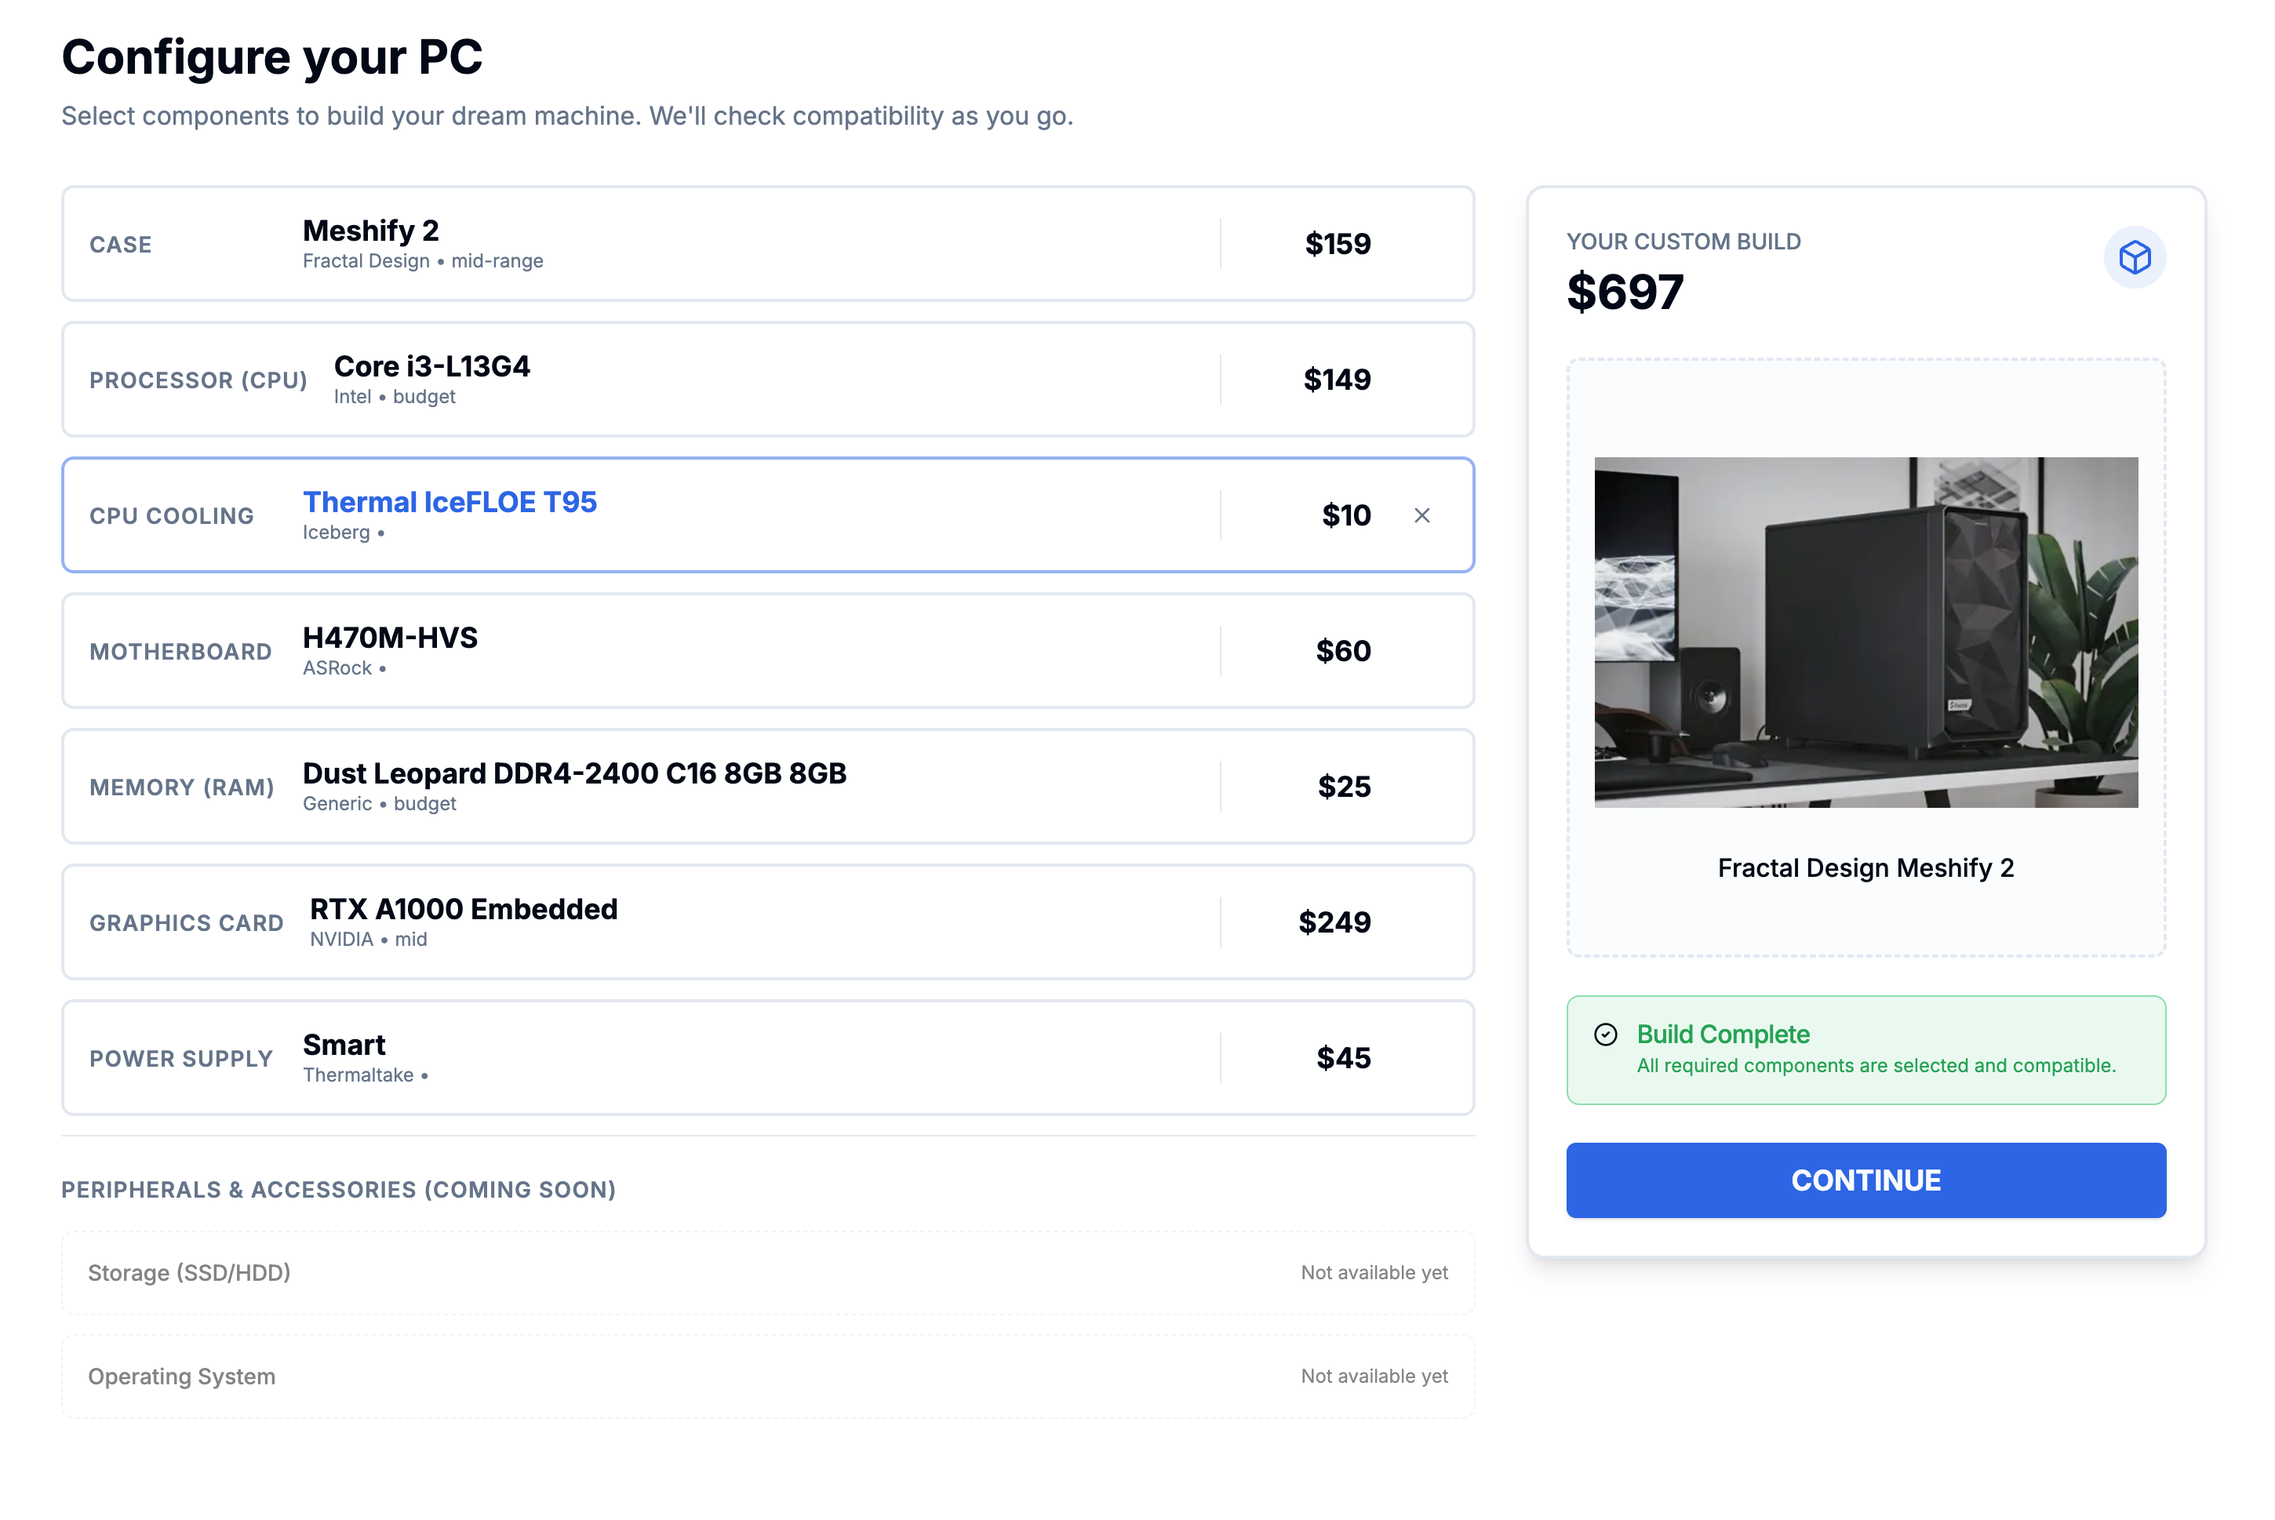
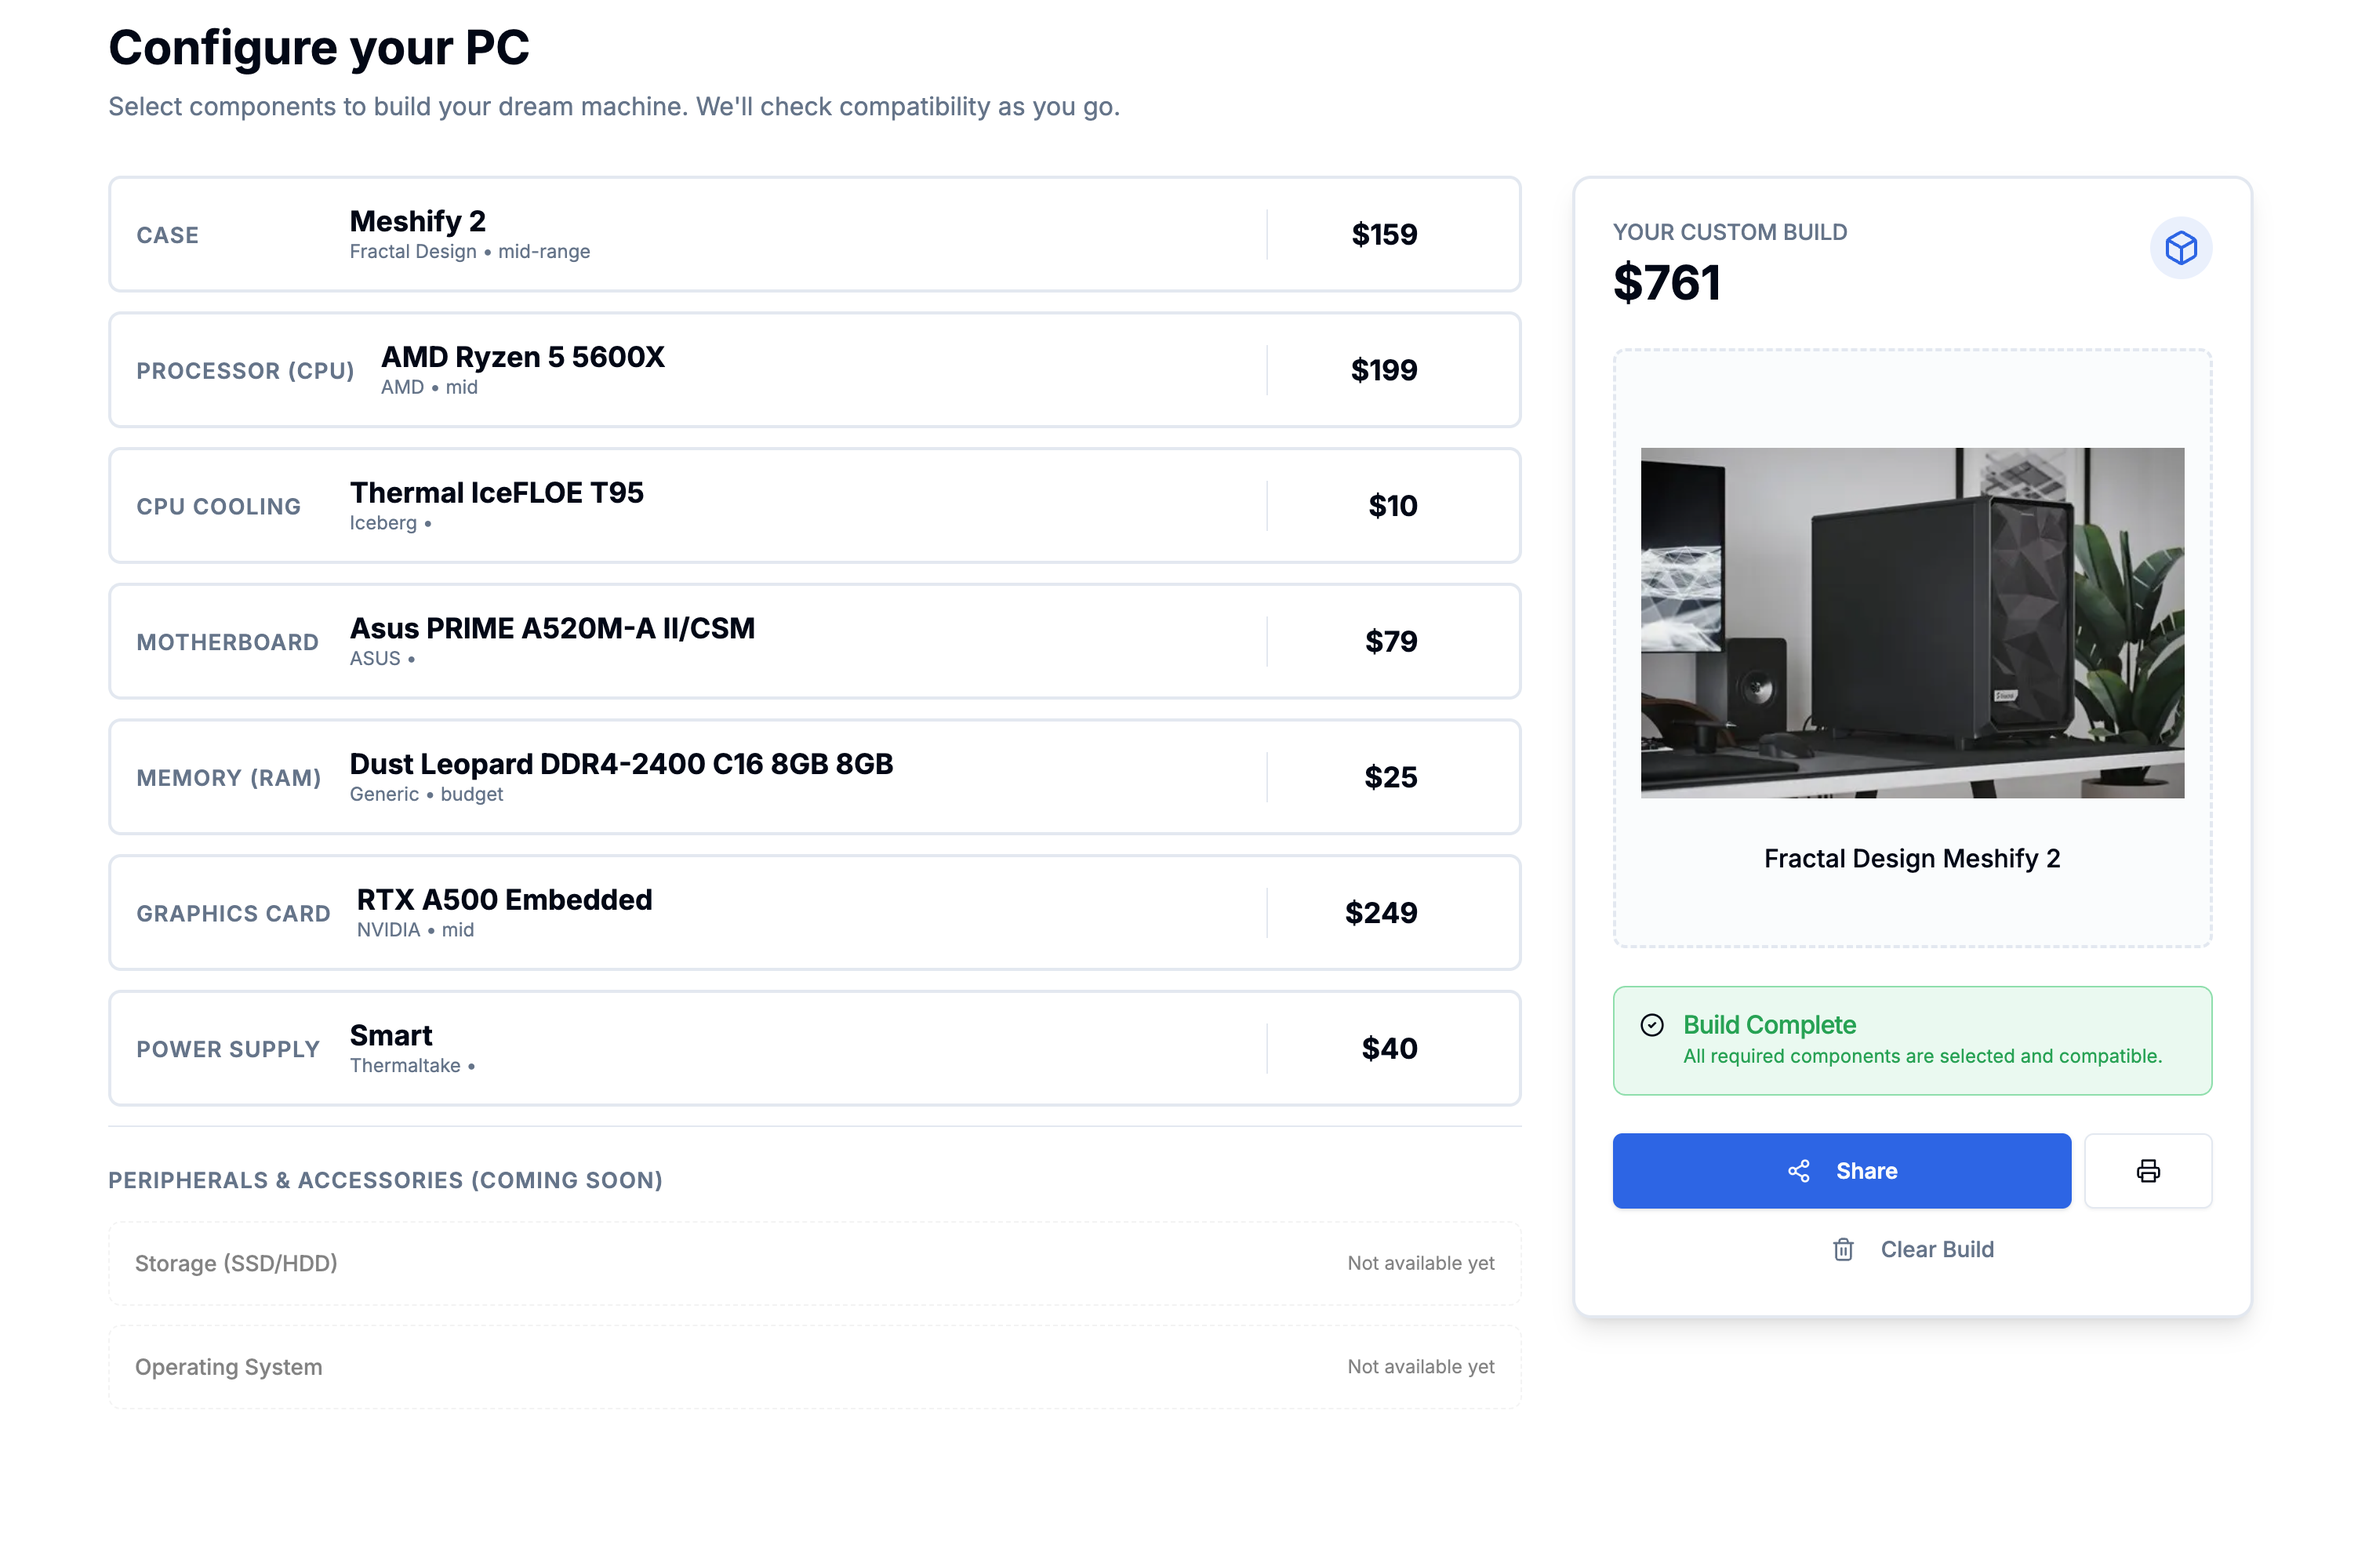
docs: update submission with corrected examples and new screenshots
- Update CPU examples from AM5/DDR5 to AM4/DDR4 to match actual data
- Update screenshots for build page and summary sidebar
- Add new screenshots: export_build.png, compatibility_warnings.png

diff --git a/docs/DEVTO_SUBMISSION.md b/docs/DEVTO_SUBMISSION.md
@@ -15,8 +15,8 @@ cover_image: https://raw.githubusercontent.com/prkshverma09/ComputerSpecLogic/ma
 ### The Problem
 
 Building a PC involves navigating a complex web of interdependencies:
-- **Socket Compatibility**: AMD AM5 CPUs only work with AM5 motherboards
-- **Memory Standards**: DDR5 and DDR4 are incompatible and motherboard-dependent
+- **Socket Compatibility**: AMD AM4 CPUs only work with AM4 motherboards
+- **Memory Standards**: DDR4 and DDR5 are incompatible and motherboard-dependent
 - **Power Requirements**: High-end GPUs like the RTX 4090 can spike to 2x their rated power
 - **Physical Constraints**: GPU length and cooler height must fit within case clearances
 
@@ -43,14 +43,11 @@ Spec-Logic combines Algolia's lightning-fast structured search with AI-powered e
 
 ## Demo
 
-<!-- TODO: Add your live demo URL -->
 🔗 **Live Demo**: [https://computer-spec-logic.vercel.app/](https://computer-spec-logic.vercel.app/)
 
-<!-- TODO: Add your GitHub repo URL -->
 📦 **GitHub Repository**: [https://github.com/prkshverma09/ComputerSpecLogic](https://github.com/prkshverma09/ComputerSpecLogic)
 
-<!-- TODO: Add your demo video URL (YouTube, Loom, etc.) -->
-🎥 **Demo Video**: [Watch the demo](YOUR_VIDEO_LINK_HERE)
+🎥 **Demo Video**: [Watch the demo](https://youtu.be/GYVdIAYZSgI)
 
 ### Screenshots
 
@@ -69,10 +66,16 @@ Spec-Logic combines Algolia's lightning-fast structured search with AI-powered e
 **Build Summary with Case Image**
 ![Build Summary Sidebar](https://raw.githubusercontent.com/prkshverma09/ComputerSpecLogic/main/docs/assets/Build_Summary_Sidebar.png)
 
+**Compatibility Warnings (Tight Fit Alerts)**
+![Compatibility Warnings](https://raw.githubusercontent.com/prkshverma09/ComputerSpecLogic/main/docs/assets/compatibility_warnings.png)
+
 **AI Chat Assistant with Combobox Input**
 ![Empty Chat Widget](https://raw.githubusercontent.com/prkshverma09/ComputerSpecLogic/main/docs/assets/Empty_Chat_Box.png)
 
 ![Chat Widget with Query and Response](https://raw.githubusercontent.com/prkshverma09/ComputerSpecLogic/main/docs/assets/Chat_Widget_With_Query.png)
+
+**Export Build (PCPartPicker, Reddit, JSON, Share Link)**
+![Export Build Page](https://raw.githubusercontent.com/prkshverma09/ComputerSpecLogic/main/docs/assets/export_build.png)
 
 ## How I Used Algolia Agent Studio
 
@@ -82,19 +85,18 @@ I created a comprehensive PC components index containing 7 component types with 
 
 ```json
 {
-  "objectID": "cpu-amd-ryzen9-9900x",
+  "objectID": "cpu-amd-ryzen5-5600x",
   "component_type": "CPU",
   "brand": "AMD",
-  "model": "Ryzen 9 9900X",
-  "socket": "AM5",
-  "tdp_watts": 120,
-  "max_tdp_watts": 162,
-  "cores": 12,
-  "threads": 24,
-  "memory_type": ["DDR5"],
-  "price_usd": 499,
-  "performance_tier": "high-end",
-  "compatibility_tags": ["am5", "ddr5", "pcie5", "high-tdp"]
+  "model": "Ryzen 5 5600X",
+  "socket": "AM4",
+  "tdp_watts": 65,
+  "cores": 6,
+  "threads": 12,
+  "memory_type": ["DDR4"],
+  "price_usd": 199,
+  "performance_tier": "mid-range",
+  "compatibility_tags": ["am4", "ddr4", "pcie4"]
 }
 ```
 
@@ -111,8 +113,8 @@ The index includes:
 
 The magic happens through **proactive filtering based on build context**. Here's the flow:
 
-1. **User selects a CPU** (e.g., AMD Ryzen 7 9700X with AM5 socket)
-2. **Build state updates** with active filters: `socket: "AM5"`, `memory_type: "DDR5"`
+1. **User selects a CPU** (e.g., AMD Ryzen 5 5600X with AM4 socket)
+2. **Build state updates** with active filters: `socket: "AM4"`, `memory_type: "DDR4"`
 3. **Search results automatically filter** to show only compatible components
 4. **Compatibility badges appear** on every component showing fit status
 
@@ -124,19 +126,19 @@ I configured Algolia Query Rules to detect component patterns and apply automati
 
 ```json
 {
-  "pattern": "Ryzen 9 9|Ryzen 7 9|Ryzen 5 9|9900X|9700X|9600X",
+  "pattern": "Ryzen 5 5|Ryzen 7 5|Ryzen 9 5|5600X|5800X|5900X",
   "consequence": {
     "params": {
-      "filters": "socket:AM5",
-      "userData": { "detected_socket": "AM5", "compatibility_mode": true }
+      "filters": "socket:AM4",
+      "userData": { "detected_socket": "AM4", "compatibility_mode": true }
     }
   }
 }
 ```
 
-When a user searches for "Ryzen 9 9900X", the system automatically:
-- Detects it's an AM5 CPU
-- Filters subsequent motherboard searches to AM5 socket
+When a user searches for "Ryzen 5 5600X", the system automatically:
+- Detects it's an AM4 CPU
+- Filters subsequent motherboard searches to AM4 socket
 - Passes compatibility context to the AI assistant
 
 ### Targeted Prompting Approach
@@ -149,11 +151,11 @@ You are Spec-Logic, an expert PC building assistant.
 ## Core Rules (NEVER violate):
 
 1. **CPU ↔ Motherboard**: socket MUST match exactly
-   - AM5 CPUs → AM5 motherboards only
+   - AM4 CPUs → AM4 motherboards only
    - LGA1700 CPUs → LGA1700 motherboards only
 
 2. **Memory ↔ Motherboard**: memory_type MUST match
-   - DDR5 motherboards → DDR5 RAM only
+   - DDR4 motherboards → DDR4 RAM only
 
 3. **GPU ↔ Case**: gpu_length_mm MUST be < case.max_gpu_length_mm
 
@@ -185,11 +187,11 @@ Algolia's sub-200ms search latency makes this possible. Here's why speed is crit
 The core UX pattern is what I call the "Lock-In":
 
 ```
-User selects AMD Ryzen 7 9700X
+User selects AMD Ryzen 5 5600X
      ↓
-System locks: socket=AM5, memory=DDR5
+System locks: socket=AM4, memory=DDR4
      ↓
-Motherboard search instantly filters to ~50 compatible boards
+Motherboard search instantly filters to compatible AM4 boards
      ↓
 User sees only valid options with green badges
 ```
@@ -243,6 +245,3 @@ With Algolia's speed, this happens before the user even finishes processing the 
 ---
 
 Built with ❤ for the Algolia Agent Studio Challenge 2026
-
-<!-- TODO: If this is a team submission, list teammate DEV usernames here -->
-<!-- Team Members: @username1, @username2 -->
